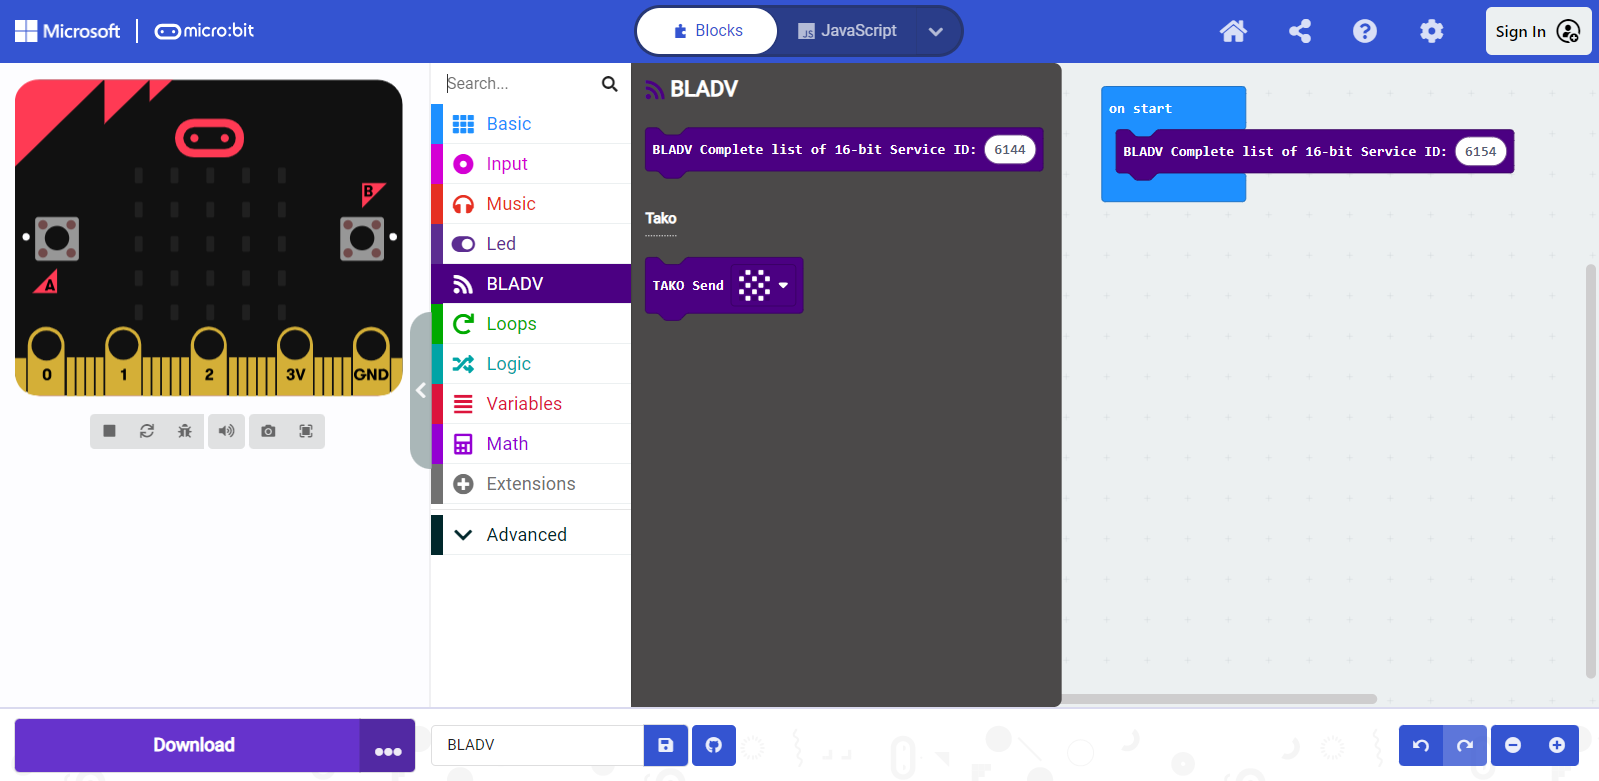
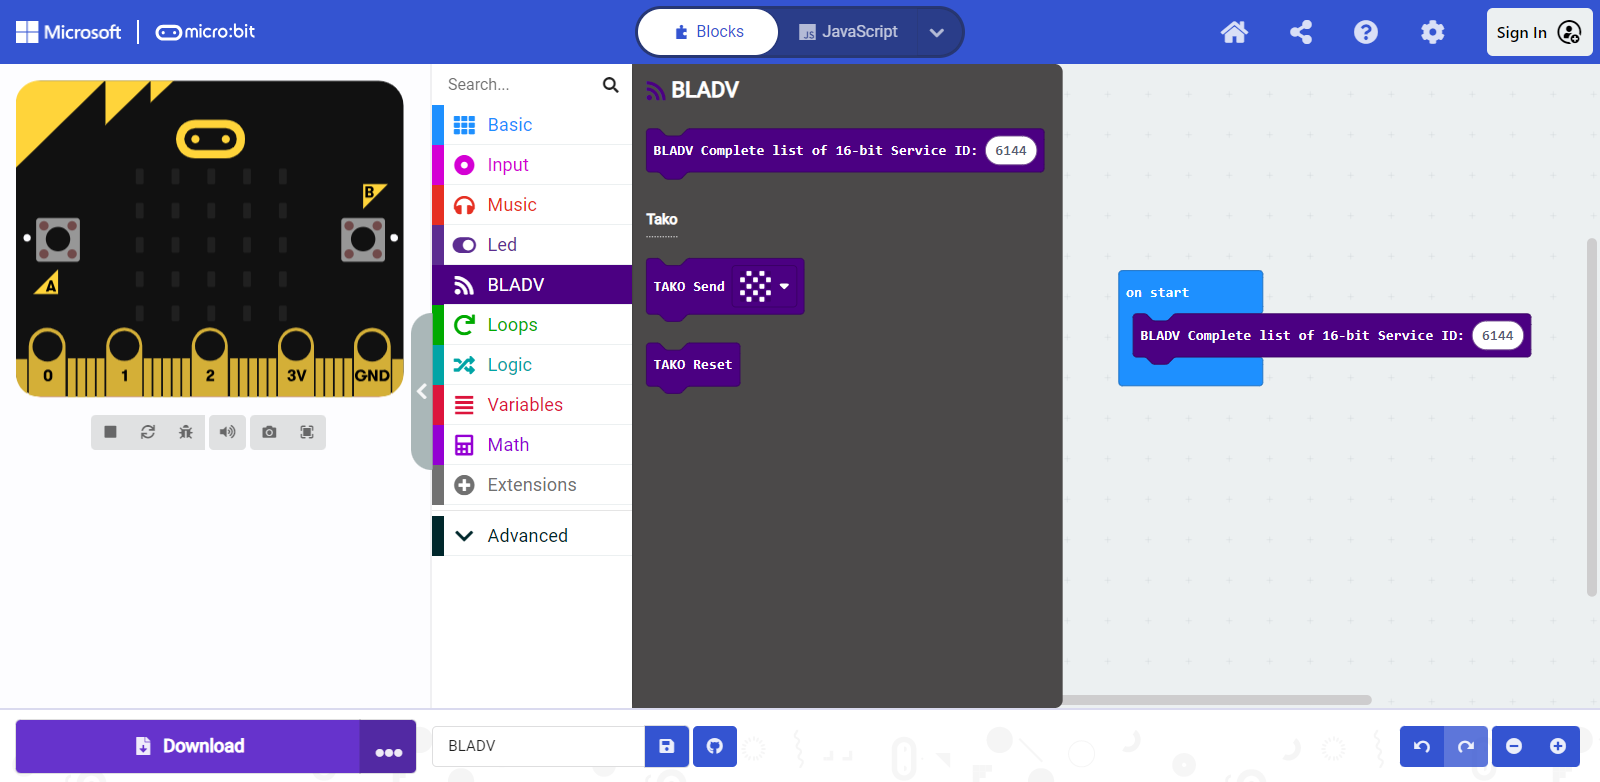
advertising TAKO's info.

diff --git a/bladv.ts b/bladv.ts
@@ -39,7 +39,6 @@ enum TakoSymbols {
     //% block="triangle"
     //% jres=icons.triangle
     Triangle,
-    
 }
 
 /**
@@ -57,7 +56,7 @@ namespace bladv {
     //% blockId=bladv_accumulate_complete_list_16bit_service_id
     //% block="BLADV Complete list of 16-bit Service ID: %serviceUUID"
     //% serviceUUID.min=1 serviceUUID.max=65535 serviceUUID.defl=6144
-    //% shim=bladv::accumulateCompleteList16BitServiceID
+    //% shim=bladv::accumulateCompleteList16BitServiceID_
     //% weight=120
     export function accumulateCompleteList16BitServiceID(serviceUUID: number): void
     {
@@ -66,7 +65,7 @@ namespace bladv {
     
     // for TAKO
     let _counter = -1;
-    loops.everyInterval(200, function () {
+    loops.everyInterval(500, function () {
         if (0 > _counter) {
             // nop
         } else if (0 == _counter) {
@@ -81,8 +80,8 @@ namespace bladv {
     })
 
     /**
-     * Send mark to TAKO.
-     * @param mark 0:circle, 1:square, 2:star, 3:heart, 4:triangle
+     * Send symbol to TAKO.
+     * @param symbol 0:circle, 1:square, 2:star, 3:heart, 4:triangle
      */
     //% blockId=bladv_send_to_tako
     //% block="TAKO Send %i"
@@ -90,24 +89,36 @@ namespace bladv {
     //% mark.fieldOptions.columns="1"
     //% mark.fieldOptions.width="76"
     //% mark.fieldOptions.maxRows="5"
-    //% weight=110
+    //% weight=100
     //% group="Tako"
-    export function sendToTako(mark: TakoSymbols): void
+    export function sendToTako(symbol: TakoSymbols): void
     {
         _counter = 10;
-        _sendToTako(mark);
+        _sendToTako(symbol);
     }
-    
+
     /**
-     * (shim) Send mark to TAKO.
-     * @param mark 0:circle, 1:square, 2:star, 3:heart, 4:triangle
+     * Reset TAKO.
+     */
+    //% blockId=bladv_reset_tako
+    //% block="TAKO Reset"
+    //% weight=90
+    //% group="Tako"
+    export function resetTako(): void
+    {
+        _counter = 5;
+    }
+        
+    /**
+     * (shim) Send symbol to TAKO.
+     * @param symbol 0:circle, 1:square, 2:star, 3:heart, 4:triangle
      */
     //% block
     //% blockHidden=true
-    //% weight=100
+    //% weight=82
     //% group="Tako"
-    //% shim=bladv::sendToTako
-    export function _sendToTako(mark: TakoSymbols): void
+    //% shim=bladv::sendToTako_
+    export function _sendToTako(symbol: TakoSymbols): void
     {
         return;
     }
@@ -117,9 +128,9 @@ namespace bladv {
      */
     //% block
     //% blockHidden=true
-    //% weight=90
+    //% weight=81
     //% group="Tako"
-    //% shim=bladv::resetTako
+    //% shim=bladv::resetTako_
     export function _resetTako(): void
     {
         return;
@@ -132,7 +143,7 @@ namespace bladv {
     //% blockHidden=true
     //% weight=80
     //% group="Tako"
-    //% shim=bladv::stopTako
+    //% shim=bladv::stopTako_
     export function _stopTako(): void
     {
         return;

diff --git a/lib/bladvlib.cpp b/lib/bladvlib.cpp
@@ -56,12 +56,56 @@ namespace bladvlib {
 
 #define LBS_UUID_TAKO_BASE { 0xc1, 0x97, 0x12, 0xb5, 0xcf, 0x7e, 0xd7, 0xbc, 0x38, 0x45, 0x02, 0x00, 0x00, 0x00, 0x40, 0x25}
 #define LBS_UUID_TAKO_SERVICE 0xb6b0
+#define TAKO_TX_POWER_LEVEL 7
 
-    static ManagedString takoCircle(   "00000000");
-    static ManagedString takoSquare(   "00000001");
-    static ManagedString takoStar(     "00000002");
-    static ManagedString takoHeart(    "00000003");
-    static ManagedString takoTriangle( "00000004");
+static const int8_t TAKO_TX_POWER_LEVEL_VALUE[] = {-30, -20, -16, -12, -8, -4, 0, 4};
+static  uint8_t TAKO_MANUF_STR[] = "TAKO de-s";
+
+static const ManagedString takoCircle(   "00000000");
+static const ManagedString takoSquare(   "00000001");
+static const ManagedString takoStar(     "00000002");
+static const ManagedString takoHeart(    "00000003");
+static const ManagedString takoTriangle( "00000004");
+
+static ManagedString createSymbolDeviceName( const int8_t symbol)
+{
+    // gap device name
+    ManagedString gapName;  // length: 16
+    
+    if ( 0 > symbol)
+    {
+        // reset
+        gapName = ManagedString("0000000000000000");
+    }
+    else
+    {
+        ManagedString seq("BBBBBBBB");  // length: 8
+        seq = (ManagedString("B8") + ManagedString(uBit.random(999998) + 1) + seq).substring(0, 8);
+        switch (symbol)
+        {
+        case 0:
+            gapName = seq + takoCircle;
+            break;
+        case 1:
+            gapName = seq + takoSquare;
+            break;
+        case 2:
+            gapName = seq + takoStar;
+            break;
+        case 3:
+            gapName = seq + takoHeart;
+            break;
+        case 4:
+            gapName = seq + takoTriangle;
+            break;
+        default:
+            gapName = seq + takoCircle;
+            break;
+        }
+    }
+
+    return gapName;
+}
 
 //================================================================
 #if MICROBIT_CODAL
@@ -138,18 +182,20 @@ static void microbit_ble_configureAdvertising( bool connectable, bool discoverab
 static void microbit_ble_configureAdvertising( bool connectable, bool discoverable, bool whitelist,
                                                uint16_t interval_ms, int timeout_seconds, ble_uuid_t *p_uuid)
 {
+    // adv_data
     ble_advdata_t advdata;
     memset( &advdata, 0, sizeof( advdata));
     advdata.name_type = BLE_ADVDATA_FULL_NAME;
     advdata.flags     = !whitelist && discoverable
                       ? BLE_GAP_ADV_FLAG_BR_EDR_NOT_SUPPORTED | BLE_GAP_ADV_FLAG_LE_GENERAL_DISC_MODE
                       : BLE_GAP_ADV_FLAG_BR_EDR_NOT_SUPPORTED;
-    
+    // scan_rsp_data
     ble_advdata_t scanrsp;
     memset(&scanrsp, 0, sizeof(scanrsp));
+    // advdata.name_type = BLE_ADVDATA_NO_NAME;
     scanrsp.uuids_complete.p_uuids = p_uuid;
     scanrsp.uuids_complete.uuid_cnt = 1;
-
+    // configure
     microbit_ble_configureAdvertising( connectable, discoverable, whitelist, interval_ms, timeout_seconds, &advdata, &scanrsp);
 }
 
@@ -190,66 +236,34 @@ void accumulateCompleteList16BitServiceID( const uint16_t serviceUUID)
 
     // Restart
     uBit.bleManager.advertise();
-} 
+}
 
-void initTako()
+static void initTako()
 {
     if (m_tako_initialized)
     {
         return;
     }
     m_tako_initialized = true;
-    // 128bit uuid for tako
+    // 128bit uuid for TAKO
     static ble_uuid128_t base_uuid = {LBS_UUID_TAKO_BASE};
     MICROBIT_BLE_ECHK(sd_ble_uuid_vs_add(&base_uuid, &m_tako_uuid.type));
     m_tako_uuid.uuid = LBS_UUID_TAKO_SERVICE;
+    // Bluetooth Appearance values
+    // https://infocenter.nordicsemi.com/topic/com.nordic.infocenter.s113.api.v7.0.1/group___b_l_e___a_p_p_e_a_r_a_n_c_e_s.html
+    MICROBIT_BLE_ECHK(sd_ble_gap_appearance_set(BLE_APPEARANCE_GENERIC_COMPUTER));
 }
 
-void setMarkDeviceName( const int8_t mark)
+static void setSymbolDeviceName( const int8_t symbol)
 {
-    // gap device name
-    ManagedString gapName;  // length: 16
-    
-    if ( 0 > mark)
-    {
-        // reset
-        gapName = ManagedString("0000000000000000");
-    }
-    else
-    {
-        ManagedString seq("00000000");  // length: 8
-        seq = (ManagedString(uBit.random(99999998) + 1) + seq).substring(0, 8);
-        switch (mark)
-        {
-        case 0:
-            gapName = seq + takoCircle;
-            break;
-        case 1:
-            gapName = seq + takoSquare;
-            break;
-        case 2:
-            gapName = seq + takoStar;
-            break;
-        case 3:
-            gapName = seq + takoHeart;
-            break;
-        case 4:
-            gapName = seq + takoTriangle;
-            break;
-        default:
-            gapName = seq + takoCircle;
-            break;
-        }
-    }
-    
     // set gap device name
     ble_gap_conn_sec_mode_t sec_mode;
     BLE_GAP_CONN_SEC_MODE_SET_OPEN(&sec_mode);
+    ManagedString gapName = createSymbolDeviceName(symbol);
     MICROBIT_BLE_ECHK(sd_ble_gap_device_name_set(&sec_mode, (const uint8_t *)gapName.toCharArray(), gapName.length()));
-
 }
 
-void advertiseTako( const int8_t mark)
+void advertiseTako( const int8_t symbol)
 {
     // Stop
     uBit.bleManager.stopAdvertising();
@@ -258,23 +272,44 @@ void advertiseTako( const int8_t mark)
     initTako();
 
     // gap device name
-    setMarkDeviceName( mark);
+    setSymbolDeviceName( symbol);
+
+    // set tx power
+    uBit.bleManager.setTransmitPower(TAKO_TX_POWER_LEVEL);
 
     // Setup advertising.
     bool connectable = false;
     bool discoverable = true;
     bool whitelist = false;
-    microbit_ble_configureAdvertising( connectable, discoverable, whitelist,
-                                       MICROBIT_BLE_ADVERTISING_INTERVAL, MICROBIT_BLE_ADVERTISING_TIMEOUT, &m_tako_uuid);
+    // adv_data
+    ble_advdata_t advdata;
+    memset( &advdata, 0, sizeof( advdata));
+    advdata.name_type = BLE_ADVDATA_FULL_NAME;
+    advdata.flags     = !whitelist && discoverable
+                      ? BLE_GAP_ADV_FLAG_BR_EDR_NOT_SUPPORTED | BLE_GAP_ADV_FLAG_LE_GENERAL_DISC_MODE
+                      : BLE_GAP_ADV_FLAG_BR_EDR_NOT_SUPPORTED;
+    advdata.include_appearance = true;
+    static int8_t tx_power_level = TAKO_TX_POWER_LEVEL_VALUE[TAKO_TX_POWER_LEVEL];
+    advdata.p_tx_power_level = &tx_power_level;
+    // scan_rsp_data
+    ble_advdata_t scanrsp;
+    memset(&scanrsp, 0, sizeof(scanrsp));
+    // advdata.name_type = BLE_ADVDATA_NO_NAME;
+    scanrsp.uuids_complete.p_uuids = &m_tako_uuid;
+    scanrsp.uuids_complete.uuid_cnt = 1;
+    ble_advdata_manuf_data_t manuf;
+    memset(&manuf, 0, sizeof(manuf));
+    manuf.company_identifier = 0x8888;
+    manuf.data.p_data = TAKO_MANUF_STR;
+    manuf.data.size = sizeof(TAKO_MANUF_STR) - 1;
+    scanrsp.p_manuf_specific_data = &manuf;
+    // configure
+    microbit_ble_configureAdvertising( connectable, discoverable, whitelist, 
+                                       MICROBIT_BLE_ADVERTISING_INTERVAL, MICROBIT_BLE_ADVERTISING_TIMEOUT,
+                                       &advdata, &scanrsp);
 
     // Restart
     uBit.bleManager.advertise();
-
-    if ( 0>mark )
-    {
-        // Stop
-        uBit.bleManager.stopAdvertising();
-    }
 }
 
 //================================================================
@@ -287,9 +322,9 @@ void accumulateCompleteList16BitServiceID( const uint16_t serviceUUID)
     uBit.ble->accumulateAdvertisingPayload(GapAdvertisingData::COMPLETE_LIST_16BIT_SERVICE_IDS, (uint8_t *)&serviceUUID, 2);
 }
 
-void advertiseTako( const int8_t mark)
+void advertiseTako( const int8_t symbol)
 {
-    // 0-4: message, -1: reset
+    // NOT SUPPORTED
 }
 
 //================================================================

diff --git a/bladv.cpp b/bladv.cpp
@@ -29,28 +29,26 @@ namespace bladv
 {
 
     //%
-    void accumulateCompleteList16BitServiceID(int serviceUUID)
+    void accumulateCompleteList16BitServiceID_(int serviceUUID)
     {
         bladvlib::accumulateCompleteList16BitServiceID((uint16_t)serviceUUID);
     }
 
     //%
-    void sendToTako(int mark)
+    void sendToTako_(int mark)
     {
         bladvlib::advertiseTako((int8_t)mark);
     }
 
     //%
-    void resetTako()
+    void resetTako_()
     {
         bladvlib::advertiseTako(-1);
     }
 
     //%
-    void stopTako()
+    void stopTako_()
     {
-        resetTako();
-        // Stop
         uBit.bleManager.stopAdvertising();
     }
 

diff --git a/lib/bladvlib.h b/lib/bladvlib.h
@@ -27,11 +27,12 @@ SOFTWARE.
 
 #include "pxt.h"
 
-namespace bladvlib {
+namespace bladvlib
+{
 
-void accumulateCompleteList16BitServiceID( const uint16_t serviceUUID);
+    void accumulateCompleteList16BitServiceID(const uint16_t serviceUUID);
 
-void advertiseTako( const int8_t mark);
+    void advertiseTako(const int8_t symbol);
 
 }
 
